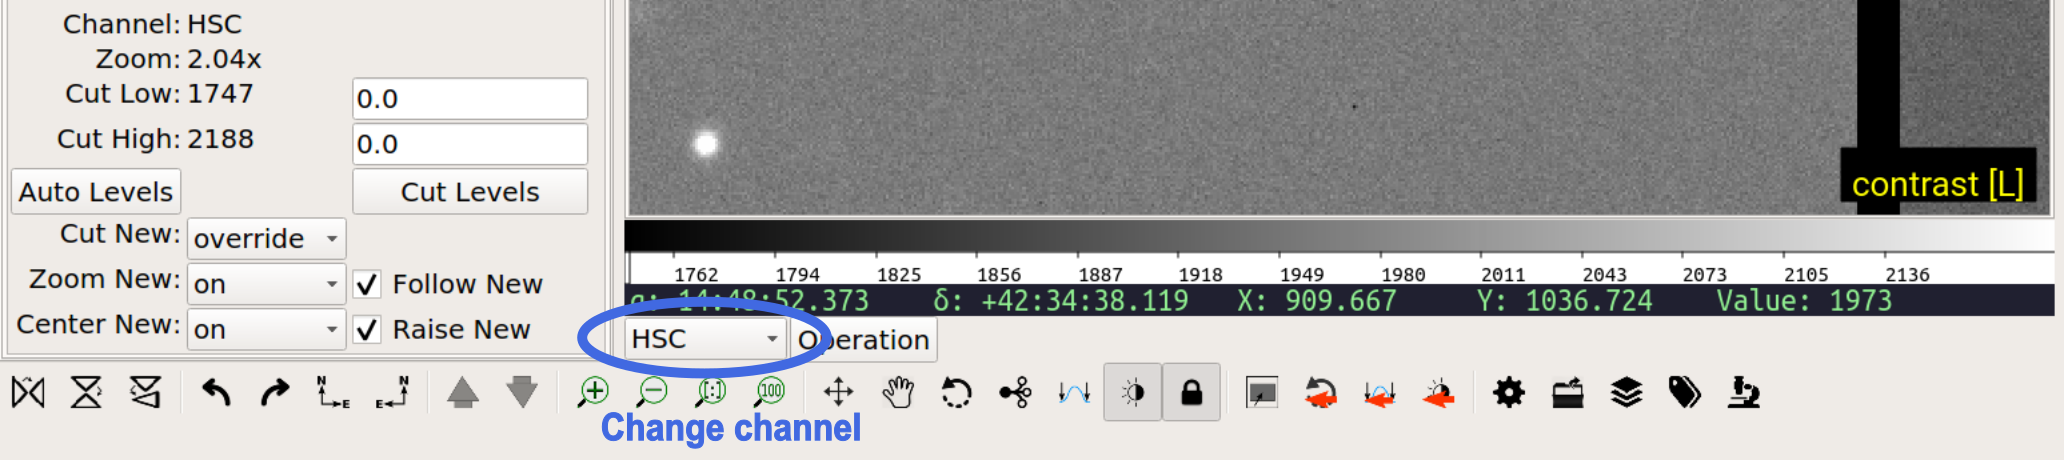
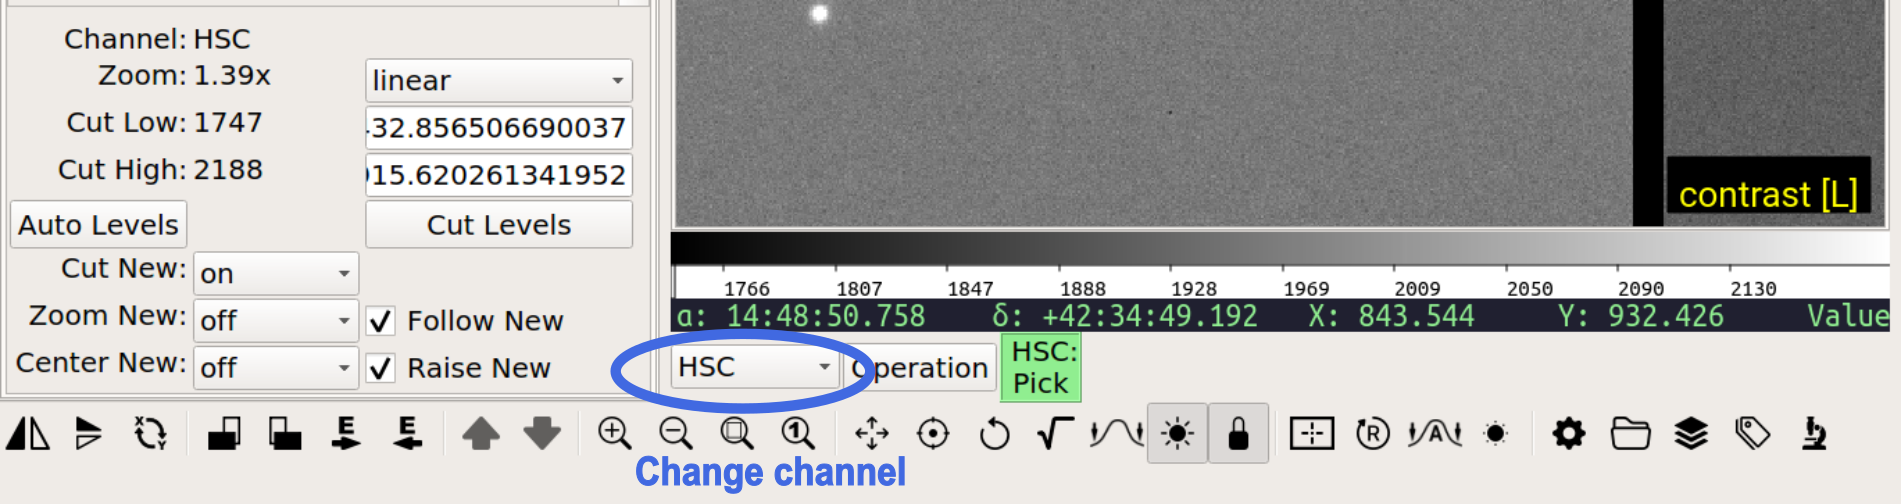
Update doc screenshots and add distribution control to Info plugin
- some screen shots are updated to reflect new icons

diff --git a/ginga/rv/plugins/Info.py b/ginga/rv/plugins/Info.py
@@ -2,7 +2,7 @@
 # Please see the file LICENSE.txt for details.
 """
 The ``Info`` plugin provides a pane of commonly useful metadata about the
-associated channel image.  Common information includes some metadata
+focused channel image.  Common information includes some metadata
 header values, coordinates, dimensions of the image, minimum and
 maximum values, etc.  As the cursor is moved around the image, the X, Y,
 Value, RA, and DEC values are updated to reflect the value under the cursor.
@@ -13,10 +13,15 @@ Value, RA, and DEC values are updated to reflect the value under the cursor.
 
 **Usage**
 
-At the bottom of the ``Info`` interface the cut levels controls. Here
-the low and high cut levels are shown and can be adjusted.  Pressing the
-"Auto Levels" button will recalculate cut levels based on the current
-auto cut levels algorithm and parameters defined in the channel
+At the bottom of the ``Info`` interface are the color distribution
+and cut levels controls.  The selector above the cut levels boxes lets
+you chose from several distribution algorithms that map the values in
+the image to the color map.  Choices are "linear", "log", "power", "sqrt",
+"squared", "asinh", "sinh", and "histeq" (histogram equalization).
+
+Below this, the low and high cut levels are shown and can be adjusted.
+Pressing the "Auto Levels" button will recalculate cut levels based on
+the current auto cut levels algorithm and parameters defined in the channel
 preferences.
 
 Below the "Auto Levels" button, the status of the settings for
@@ -43,7 +48,7 @@ file--then Close and Help buttons will be added to the bottom of the UI.
 """
 from ginga.gw import Widgets
 from ginga.misc import Bunch
-from ginga import GingaPlugin
+from ginga import GingaPlugin, ColorDist
 
 __all__ = ['Info']
 
@@ -137,7 +142,8 @@ class Info(GingaPlugin.GlobalPlugin):
         vbox.add_widget(sw2, stretch=1)
 
         captions = (('Channel:', 'label', 'Channel', 'llabel'),
-                    ('Zoom:', 'label', 'Zoom', 'llabel'),
+                    ('Zoom:', 'label', 'Zoom', 'llabel',
+                     'Color Dist', 'combobox'),
                     ('Cut Low:', 'label', 'Cut Low Value', 'llabel',
                      'Cut Low', 'entry'),
                     ('Cut High:', 'label', 'Cut High Value', 'llabel',
@@ -165,25 +171,24 @@ class Info(GingaPlugin.GlobalPlugin):
         b.cut_high.set_text(str(hival))
         b.cut_high_value.set_text(str(hival))
 
+        combobox = b.color_dist
+        for name in ColorDist.get_dist_names():
+            combobox.append_text(name)
+        b.color_dist.set_tooltip("Set distribution (stretching) algorithm")
+
         combobox = b.cut_new
-        index = 0
         for name in self.autocut_options:
             combobox.append_text(name)
-            index += 1
         b.cut_new.set_tooltip("Automatically set cut levels when switching images")
 
         combobox = b.zoom_new
-        index = 0
         for name in self.autozoom_options:
             combobox.append_text(name)
-            index += 1
         b.zoom_new.set_tooltip("Automatically fit image to window when switching images")
 
         combobox = b.center_new
-        index = 0
         for name in self.autocenter_options:
             combobox.append_text(name)
-            index += 1
         b.center_new.set_tooltip("Automatically center image in window when switching images")
 
         b.follow_new.set_tooltip("Automatically switch to new images in channel")
@@ -212,6 +217,8 @@ class Info(GingaPlugin.GlobalPlugin):
         channel.extdata._info_info = info
 
         winfo.channel.set_text(chname)
+        winfo.color_dist.add_callback('activated', self.set_color_dist,
+                                      channel, info)
         winfo.cut_low.add_callback('activated', self.cut_levels,
                                    channel, info)
         winfo.cut_high.add_callback('activated', self.cut_levels,
@@ -239,6 +246,8 @@ class Info(GingaPlugin.GlobalPlugin):
         for name in ['scale']:
             fitssettings.get_setting(name).add_callback(
                 'set', self.zoomset_cb, channel)
+        fitssettings.get_setting('color_algorithm').add_callback(
+            'set', self.cdistset_cb, channel)
         fitssettings.get_setting('autocuts').add_callback(
             'set', self.autocuts_cb, channel)
         fitssettings.get_setting('autozoom').add_callback(
@@ -353,6 +362,15 @@ class Info(GingaPlugin.GlobalPlugin):
         #info.winfo.cut_high.set_text('%.4g' % (hival))
         info.winfo.cut_high_value.set_text('%.4g' % (hival))
 
+    def cdistset_cb(self, setting, value, channel):
+        if not self.gui_up:
+            return
+        info = channel.extdata._info_info
+        if info is None:
+            return
+        name = value
+        info.winfo.color_dist.set_text(name)
+
     def autocuts_cb(self, setting, option, channel):
         if not self.gui_up:
             return
@@ -466,6 +484,10 @@ class Info(GingaPlugin.GlobalPlugin):
         info.winfo.follow_new.set_state(t_['switchnew'])
         info.winfo.raise_new.set_state(t_['raisenew'])
 
+        # Set color distribution indicator
+        name = t_['color_algorithm']
+        info.winfo.color_dist.set_text(name)
+
         image = fitsimage.get_image()
         if image is None:
             return
@@ -535,6 +557,10 @@ class Info(GingaPlugin.GlobalPlugin):
 
     def auto_levels(self, w, channel, info):
         channel.fitsimage.auto_levels()
+
+    def set_color_dist(self, w, idx, channel, info):
+        name = w.get_text()
+        channel.fitsimage.set_color_algorithm(name)
 
     def __str__(self):
         return 'info'

diff --git a/ginga/rv/plugins/Toolbar.py b/ginga/rv/plugins/Toolbar.py
@@ -128,15 +128,15 @@ class Toolbar(GingaPlugin.GlobalPlugin):
             ("ResetContrast", 'button', 'reset_contrast', "Reset contrast",
              self.reset_contrast_cb),
             ("---",),
-            ("Preferences", 'button', 'settings', "Set channel preferences",
+            ("Preferences", 'button', 'settings', "Set channel preferences (in focused channel)",
              lambda w: self.start_plugin_cb('Preferences')),
-            ("FBrowser", 'button', 'folder_open', "Open file",
+            ("FBrowser", 'button', 'folder_open', "Open file (in focused channel)",
              lambda w: self.start_plugin_cb('FBrowser')),
-            ("MultiDim", 'button', 'layers', "Select HDUs or cube slices",
+            ("MultiDim", 'button', 'layers', "Select HDUs or cube slices (in focused channel)",
              lambda w: self.start_plugin_cb('MultiDim')),
-            ("Header", 'button', 'tags', "View image metadata",
+            ("Header", 'button', 'tags', "View image metadata (Header plugin)",
              lambda w: self.start_global_plugin_cb('Header')),
-            ("ZoomPlugin", 'button', 'microscope', "Magnify detail",
+            ("ZoomPlugin", 'button', 'microscope', "Magnify detail (Zoom plugin)",
              lambda w: self.start_global_plugin_cb('Zoom')),
             ):  # noqa
 
@@ -144,11 +144,13 @@ class Toolbar(GingaPlugin.GlobalPlugin):
             if name == '---':
                 tb.add_separator()
                 continue
-            iconpath = os.path.join(self.fv.iconpath, "%s.svg" % (tup[2]))
-            if not os.path.exists(iconpath):
-                iconpath = os.path.join(self.fv.iconpath, "%s.png" % (tup[2]))
-            btn = tb.add_action(None, toggle=(tup[1] == 'toggle'),
-                                iconpath=iconpath, iconsize=(24, 24))
+            if tup[1] not in ['button', 'toggle']:
+                btn = Widgets.make_widget(name, tup[1])
+                tb.add_widget(btn)
+            else:
+                iconpath = os.path.join(self.fv.iconpath, "%s.svg" % (tup[2]))
+                btn = tb.add_action(None, toggle=(tup[1] == 'toggle'),
+                                    iconpath=iconpath, iconsize=(24, 24))
             if tup[3]:
                 btn.set_tooltip(tup[3])
             if tup[4]:
@@ -364,20 +366,20 @@ class Toolbar(GingaPlugin.GlobalPlugin):
         self.w.btn_up.set_enabled(enabled)
         self.w.btn_down.set_enabled(enabled)
 
-    def _update_toolbar_state(self, fitsimage):
-        if (fitsimage is None) or (not self.gui_up):
+    def _update_toolbar_state(self, chviewer):
+        if (chviewer is None) or (not self.gui_up):
             return
         self.logger.debug("updating toolbar state")
         try:
             # update transform toggles
-            flipx, flipy, swapxy = fitsimage.get_transforms()
+            flipx, flipy, swapxy = chviewer.get_transforms()
             # toolbar follows view
             self.w.btn_flipx.set_state(flipx)
             self.w.btn_flipy.set_state(flipy)
             self.w.btn_swapxy.set_state(swapxy)
 
             # update mode toggles
-            bm = fitsimage.get_bindmap()
+            bm = chviewer.get_bindmap()
             modename, mode_type = bm.current_mode()
             self.logger.debug("modename=%s" % (modename))
             # toolbar follows view

diff --git a/doc/WhatsNew.rst b/doc/WhatsNew.rst
@@ -26,6 +26,7 @@ Ver 5.0.0 (unreleased)
 - Renamed mode "freepan" to "zoom" (bindings and activation are the
   same as before) to better reflect what the mode does
 - Changed icons and cursors from PNG (bitmap) to SVG (vector) format
+- Added color distribution ("stretch") control to Info plugin
 
 Ver 4.1.0 (2022-06-30)
 ======================
